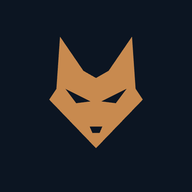
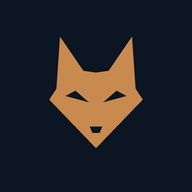
Use the shared Wolf Street wolf directly (calmer final version)
Tab icon, Apple touch icon and sign-in logo now load from
wolfstreet-production/brand/, so later changes to the wolf reach Hallway
on their own. Only the install icons (pwa-192/512, favicon.ico) stay as
copies, refreshed from wolfstreet main (PR #3, the calmer wolf).

Changed region(s): [[0.5312, 0.4688, 0.6562, 0.5625], [0.3438, 0.4688, 0.4688, 0.5625], [0.4375, 0.3438, 0.5625, 0.4062]]

diff --git a/index.html b/index.html
@@ -8,9 +8,10 @@
     <meta name="apple-mobile-web-app-capable" content="yes" />
     <meta name="apple-mobile-web-app-status-bar-style" content="black-translucent" />
     <meta name="apple-mobile-web-app-title" content="Hallway" />
-    <link rel="icon" href="/favicon.svg" type="image/svg+xml" />
-    <link rel="icon" href="/favicon.png" type="image/png" sizes="32x32" />
-    <link rel="apple-touch-icon" href="/apple-touch-icon.png" />
+    <!-- The one Wolf Street wolf, served by the Wolf Street home so changes reach every app. -->
+    <link rel="icon" href="https://wolfstreet-production.up.railway.app/brand/wolfstreet-favicon.svg" type="image/svg+xml" />
+    <link rel="icon" href="https://wolfstreet-production.up.railway.app/brand/favicon-32.png" type="image/png" sizes="32x32" />
+    <link rel="apple-touch-icon" href="https://wolfstreet-production.up.railway.app/brand/apple-touch-icon.png" />
     <link rel="preconnect" href="https://fonts.googleapis.com">
     <link rel="preconnect" href="https://fonts.gstatic.com" crossorigin>
     <link href="https://fonts.googleapis.com/css2?family=Archivo+Narrow:wght@500;600;700&family=Geist:wght@400;500;600;700&family=Geist+Mono:wght@400;500;600&display=swap" rel="stylesheet">

diff --git a/src/pages/Auth.tsx b/src/pages/Auth.tsx
@@ -265,7 +265,7 @@ function SuiteShell({ children }: { children: React.ReactNode }) {
   return (
     <div className="flex min-h-screen flex-col items-center justify-center bg-signin px-4 py-8">
       <img
-        src="/branding/wolfstreet-logo.png"
+        src="https://wolfstreet-production.up.railway.app/brand/wolfstreet-logo.png"
         alt="Wolf Street"
         width={512}
         height={512}

diff --git a/vite.config.ts b/vite.config.ts
@@ -15,7 +15,7 @@ export default defineConfig(({ mode }) => ({
     mode === "development" && componentTagger(),
     VitePWA({
       registerType: "autoUpdate",
-      includeAssets: ["favicon.png", "favicon.svg", "apple-touch-icon.png"],
+      includeAssets: ["favicon.ico"],
       manifest: {
         name: "Hallway — Wolf Street",
         short_name: "Hallway",
